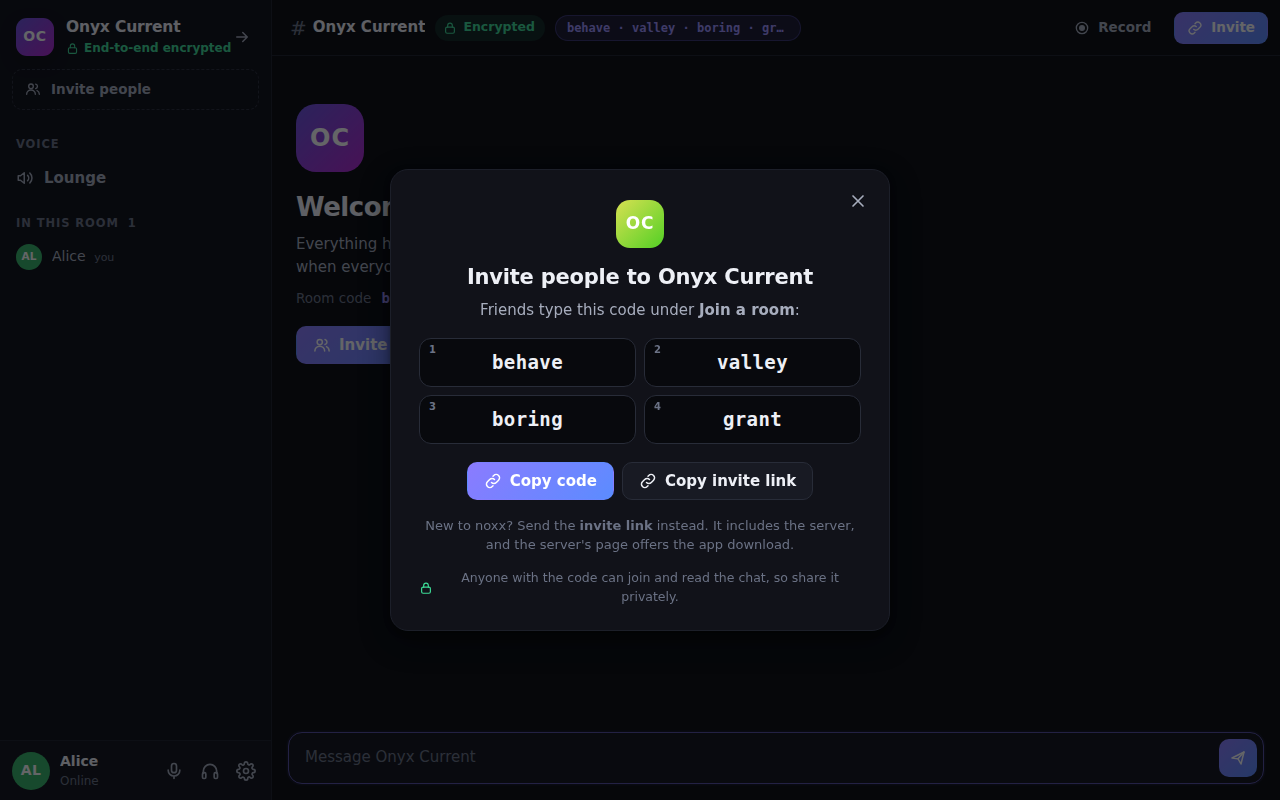
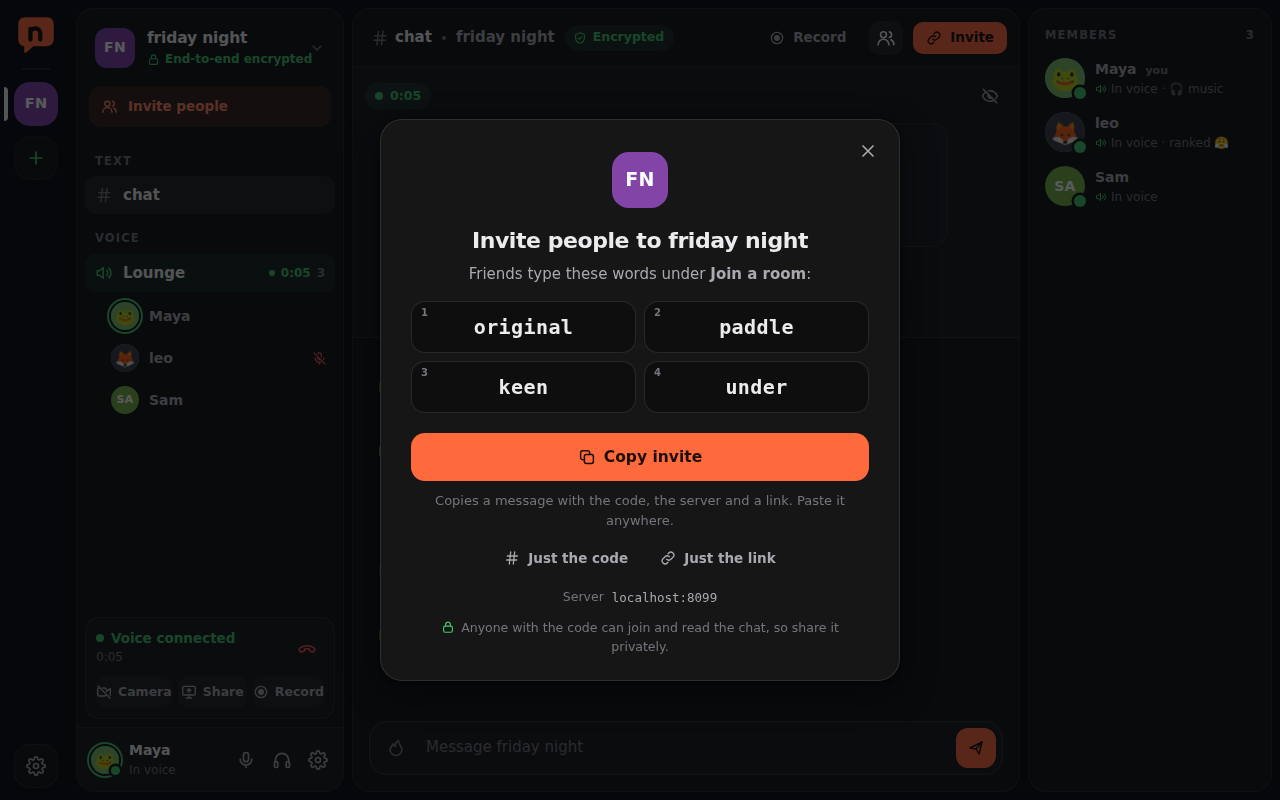
Update for 0.5.0

diff --git a/THIRD-PARTY-NOTICES.md b/THIRD-PARTY-NOTICES.md
@@ -1,17 +1,17 @@
 # Third-party notices
 
-N0xx Chat (the noxx app and the noxx server) is built with the open-source software listed below. Each
+N0xx Chat (the noxx chat app and server) is built with the open-source software listed below. Each
 component is used under its own license, and those licenses still apply to it. N0xx Chat's own
 license ([LICENSE](LICENSE)) doesn't change them.
 
 **MPL-2.0 components.** The source code for these components is available unmodified from
 <https://crates.io> under the name and version shown: cssparser 0.37.0, cssparser-macros 0.7.1, dtoa-short 0.3.5, option-ext 0.2.0, selectors 0.38.0.
 
-## noxx server
+## noxx chat server
 
 | Component | Version | License | Copyright |
 |---|---|---|---|
-| Go standard library | go1.26.6 | BSD-3-Clause | Copyright 2009 The Go Authors |
+| Go standard library | go1.24.7 | BSD-3-Clause | Copyright 2009 The Go Authors |
 | filippo.io/edwards25519 | v1.2.0 | BSD-3-Clause | Copyright (c) 2009 The Go Authors. All rights reserved. |
 | github.com/coder/websocket | v1.8.15 | 0BSD | Copyright (c) 2025 Coder |
 | github.com/creachadair/msync | v0.8.1 | BSD-3-Clause | Copyright (C) 2022, Michael J. Fromberger |
@@ -49,7 +49,7 @@ license ([LICENSE](LICENSE)) doesn't change them.
 | gvisor.dev/gvisor | v0.0.0-20260224225140-573d5e7127a8 | Apache-2.0 AND BSD-3-Clause AND MIT |  |
 | tailscale.com | v1.102.5 | BSD-3-Clause | Copyright (c) 2020 Tailscale Inc & contributors.<br>Copyright (c) Tailscale Inc & contributors |
 
-## noxx app
+## noxx chat app
 
 | Component | Version | License | Copyright |
 |---|---|---|---|
@@ -100,6 +100,8 @@ license ([LICENSE](LICENSE)) doesn't change them.
 | cfg-if | 1.0.5 | MIT OR Apache-2.0 | Copyright (c) 2014 Alex Crichton |
 | chrono | 0.4.45 | MIT OR Apache-2.0 | Copyright (c) 2014, Kang Seonghoon. |
 | concurrent-queue | 2.5.0 | Apache-2.0 OR MIT | Authors: Stjepan Glavina <stjepang@gmail.com>, Taiki Endo <te316e89@gmail.com>, John Nunley <dev@notgull.net> |
+| const-random | 0.1.18 | MIT OR Apache-2.0 | Copyright (c) 2016 Amanieu d'Antras |
+| const-random-macro | 0.1.16 | MIT OR Apache-2.0 | Copyright (c) 2016 Amanieu d'Antras |
 | cookie | 0.18.2 | MIT OR Apache-2.0 | Copyright 2017 Sergio Benitez<br>Copyright 2014 Alex Chricton<br>Copyright (c) 2017 Sergio Benitez<br>Copyright (c) 2014 Alex Crichton |
 | core-foundation | 0.10.1 | MIT OR Apache-2.0 | Copyright (c) 2012-2013 Mozilla Foundation |
 | core-foundation-sys | 0.8.7 | MIT OR Apache-2.0 | Copyright (c) 2012-2013 Mozilla Foundation |
@@ -108,7 +110,10 @@ license ([LICENSE](LICENSE)) doesn't change them.
 | cpufeatures | 0.2.17 | MIT OR Apache-2.0 | Copyright (c) 2020-2025 The RustCrypto Project Developers |
 | crc32fast | 1.5.2 | MIT OR Apache-2.0 | Copyright (c) 2018 Sam Rijs, Alex Crichton and contributors |
 | crossbeam-channel | 0.5.17 | MIT OR Apache-2.0 | Copyright (c) 2019 The Crossbeam Project Developers<br>COPYRIGHT AND/OR OTHER APPLICABLE LAW. ANY USE OF THE WORK OTHER THAN AS<br>copyright protection under copyright law or other applicable laws.<br>Copyright (c) 2009 The Go Authors. All rights reserved. |
+| crossbeam-deque | 0.8.8 | MIT OR Apache-2.0 | Copyright (c) 2019 The Crossbeam Project Developers |
+| crossbeam-epoch | 0.9.21 | MIT OR Apache-2.0 | Copyright (c) 2019 The Crossbeam Project Developers |
 | crossbeam-utils | 0.8.23 | MIT OR Apache-2.0 | Copyright (c) 2019 The Crossbeam Project Developers |
+| crunchy | 0.2.4 | MIT | Copyright 2017-2023 Eira Fransham. |
 | crypto-common | 0.1.7 | MIT OR Apache-2.0 | Copyright (c) 2021 RustCrypto Developers |
 | cssparser | 0.37.0 | MPL-2.0 | Authors: Simon Sapin <simon.sapin@exyr.org> |
 | cssparser-macros | 0.7.1 | MPL-2.0 | Authors: Simon Sapin <simon.sapin@exyr.org> |
@@ -130,12 +135,14 @@ license ([LICENSE](LICENSE)) doesn't change them.
 | displaydoc | 0.2.7 | MIT OR Apache-2.0 | Authors: Jane Lusby <jlusby@yaah.dev> |
 | dlopen2 | 0.8.2 | MIT | Authors: Szymon Wieloch <szymon.wieloch@gmail.com>, Ahmed Masud <ahmed.masud@saf.ai>, OpenByte <development.openbyte@gmail.com> |
 | dlopen2_derive | 0.4.3 | MIT | Authors: Szymon Wieloch <szymon.wieloch@gmail.com>, OpenByte <development.openbyte@gmail.com> |
+| dlv-list | 0.5.2 | MIT OR Apache-2.0 | Copyright (c) 2022 Scott Godwin |
 | dom_query | 0.28.0 | MIT | Copyright (c) 2023 Mykola Humanov |
 | dpi | 0.1.2 | Apache-2.0 AND MIT | Copyright (c) 2018 Jorge Aparicio<br>copyright:<br>Copyright © 2005-2020 Rich Felker, et al.<br>Copyright © 1993,2004 Sun Microsystems or |
 | dtoa | 1.0.11 | MIT OR Apache-2.0 | Authors: David Tolnay <dtolnay@gmail.com> |
 | dtoa-short | 0.3.5 | MPL-2.0 | Authors: Xidorn Quan <me@upsuper.org> |
 | dunce | 1.0.5 | CC0-1.0 OR MIT-0 OR Apache-2.0 | Authors: Kornel <kornel@geekhood.net> |
 | dyn-clone | 1.0.20 | MIT OR Apache-2.0 | Authors: David Tolnay <dtolnay@gmail.com> |
+| either | 1.18.0 | MIT OR Apache-2.0 | Copyright (c) 2015 |
 | embed-resource | 3.0.11 | MIT | Copyright (c) 2017 nabijaczleweli |
 | embed_plist | 1.2.2 | MIT OR Apache-2.0 | Copyright (c) 2020 Nikolai Vazquez |
 | endi | 1.1.1 | MIT | Authors: Zeeshan Ali Khan <zeenix@gmail.com> |
@@ -174,6 +181,7 @@ license ([LICENSE](LICENSE)) doesn't change them.
 | gdkx11 | 0.18.2 | MIT | Copyrights in the gtk-rs Project project are retained by their contributors. |
 | gdkx11-sys | 0.18.2 | MIT | Authors: The gtk-rs Project Developers |
 | generic-array | 0.14.7 | MIT | Copyright (c) 2015 Bartłomiej Kamiński |
+| getrandom | 0.2.17 | MIT OR Apache-2.0 | Copyright (c) 2018-2024 The rust-random Project Developers<br>Copyright (c) 2014 The Rust Project Developers |
 | getrandom | 0.3.4 | MIT OR Apache-2.0 | Copyright (c) 2018-2025 The rust-random Project Developers<br>Copyright (c) 2014 The Rust Project Developers |
 | getrandom | 0.4.3 | MIT OR Apache-2.0 | Copyright (c) 2018-2026 The rust-random Project Developers<br>Copyright (c) 2014 The Rust Project Developers |
 | gio | 0.18.4 | MIT | Copyrights in the gtk-rs Project project are retained by their contributors. |
@@ -187,6 +195,7 @@ license ([LICENSE](LICENSE)) doesn't change them.
 | gtk-sys | 0.18.2 | MIT | Authors: The gtk-rs Project Developers |
 | gtk3-macros | 0.18.2 | MIT | Copyrights in the gtk-rs Project project are retained by their contributors. |
 | hashbrown | 0.12.3 | MIT OR Apache-2.0 | Copyright (c) 2016 Amanieu d'Antras |
+| hashbrown | 0.14.5 | MIT OR Apache-2.0 | Copyright (c) 2016 Amanieu d'Antras |
 | hashbrown | 0.17.1 | MIT OR Apache-2.0 | Copyright (c) 2016 Amanieu d'Antras |
 | heck | 0.4.1 | MIT OR Apache-2.0 | Copyright (c) 2015 The Rust Project Developers |
 | heck | 0.5.0 | MIT OR Apache-2.0 | Copyright (c) 2015 The Rust Project Developers |
@@ -253,6 +262,7 @@ license ([LICENSE](LICENSE)) doesn't change them.
 | once_cell | 1.21.4 | MIT OR Apache-2.0 | Authors: Aleksey Kladov <aleksey.kladov@gmail.com> |
 | open | 5.4.4 | MIT | Copyright © `2015` `Sebastian Thiel` |
 | option-ext | 0.2.0 | MPL-2.0 | Authors: Simon Ochsenreither <simon@ochsenreither.de> |
+| ordered-multimap | 0.7.3 | MIT | Copyright (c) 2018 sgodwincs |
 | ordered-stream | 0.2.0 | MIT OR Apache-2.0 | Authors: Daniel De Graaf <code@danieldg.net>, Zeeshan Ali Khan <zeeshanak@gnome.org> |
 | pango | 0.18.3 | MIT | Copyrights in the gtk-rs Project project are retained by their contributors. |
 | pango-sys | 0.18.0 | MIT | Authors: The gtk-rs Project Developers |
@@ -284,11 +294,14 @@ license ([LICENSE](LICENSE)) doesn't change them.
 | quick-xml | 0.42.0 | MIT | Copyright (c) 2016 Johann Tuffe |
 | quote | 1.0.47 | MIT OR Apache-2.0 | Authors: David Tolnay <dtolnay@gmail.com> |
 | raw-window-handle | 0.6.2 | MIT OR Apache-2.0 OR Zlib | Copyright (c) 2019 Osspial<br>Copyright (c) 2020 Osspial |
+| rayon | 1.12.0 | MIT OR Apache-2.0 | Copyright (c) 2010 The Rust Project Developers |
+| rayon-core | 1.13.0 | MIT OR Apache-2.0 | Copyright (c) 2010 The Rust Project Developers |
 | ref-cast | 1.0.27 | MIT OR Apache-2.0 | Authors: David Tolnay <dtolnay@gmail.com> |
 | ref-cast-impl | 1.0.27 | MIT OR Apache-2.0 | Authors: David Tolnay <dtolnay@gmail.com> |
 | regex | 1.13.1 | MIT OR Apache-2.0 | Copyright (c) 2014 The Rust Project Developers |
 | regex-automata | 0.4.18 | MIT OR Apache-2.0 | Copyright (c) 2014 The Rust Project Developers |
 | regex-syntax | 0.8.11 | MIT OR Apache-2.0 | Copyright (c) 2014 The Rust Project Developers |
+| rust-ini | 0.21.3 | MIT | Copyright (c) 2014 Y. T. CHUNG |
 | rustc-hash | 2.1.3 | Apache-2.0 OR MIT | Authors: The Rust Project Developers |
 | rustc_version | 0.4.1 | MIT OR Apache-2.0 | Copyright (c) 2016 The Rust Project Developers |
 | rustix | 1.1.5 | Apache-2.0 WITH LLVM-exception OR Apache-2.0 OR MIT | Copyrights in the `rustix` project are retained by their contributors. |
@@ -342,6 +355,7 @@ license ([LICENSE](LICENSE)) doesn't change them.
 | tauri-codegen | 2.7.0 | Apache-2.0 OR MIT | Copyright (c) 2017 - Present Tauri Apps Contributors |
 | tauri-macros | 2.7.0 | Apache-2.0 OR MIT | Copyright (c) 2017 - Present Tauri Apps Contributors |
 | tauri-plugin | 2.7.0 | Apache-2.0 OR MIT | Authors: Tauri Programme within The Commons Conservancy |
+| tauri-plugin-deep-link | 2.6.0 | Apache-2.0 OR MIT | Copyright (c) 2017 - Present Tauri Apps Contributors |
 | tauri-plugin-opener | 2.6.0 | Apache-2.0 OR MIT | Copyright (c) 2017 - Present Tauri Apps Contributors |
 | tauri-plugin-single-instance | 2.5.0 | Apache-2.0 OR MIT | Copyright (c) 2017 - Present The Tauri Programme in the Commons Conservancy |
 | tauri-runtime | 2.12.0 | Apache-2.0 OR MIT | Copyright (c) 2017 - Present Tauri Apps Contributors |
@@ -356,6 +370,7 @@ license ([LICENSE](LICENSE)) doesn't change them.
 | time | 0.3.55 | MIT OR Apache-2.0 | Copyright (c) Jacob Pratt et al. |
 | time-core | 0.1.9 | MIT OR Apache-2.0 | Copyright (c) Jacob Pratt et al. |
 | time-macros | 0.2.32 | MIT OR Apache-2.0 | Copyright (c) Jacob Pratt et al. |
+| tiny-keccak | 2.0.2 | CC0-1.0 | Authors: debris <marek.kotewicz@gmail.com> |
 | tinystr | 0.8.4 | Unicode-3.0 | COPYRIGHT AND PERMISSION NOTICE<br>Copyright © 2020-2024 Unicode, Inc. |
 | tinyvec | 1.13.3 | Zlib OR Apache-2.0 OR MIT | Copyright (c) 2019 Daniel "Lokathor" Gee. |
 | tokio | 1.53.1 | MIT | Copyright (c) Tokio Contributors |
@@ -396,6 +411,7 @@ license ([LICENSE](LICENSE)) doesn't change them.
 | window-vibrancy | 0.8.1 | Apache-2.0 OR MIT | Copyright (c) 2020-2022 Tauri Programme within The Commons Conservancy |
 | windows | 0.61.3 | MIT OR Apache-2.0 | Copyright (c) Microsoft Corporation. |
 | windows | 0.62.2 | MIT OR Apache-2.0 | Copyright (c) Microsoft Corporation. |
+| windows-capture | 2.0.1 | MIT | Copyright (c) 2023 NiiightmareXD |
 | windows-collections | 0.2.0 | MIT OR Apache-2.0 | Copyright (c) Microsoft Corporation. |
 | windows-collections | 0.3.2 | MIT OR Apache-2.0 | Copyright (c) Microsoft Corporation. |
 | windows-core | 0.61.2 | MIT OR Apache-2.0 | Copyright (c) Microsoft Corporation. |
@@ -408,6 +424,7 @@ license ([LICENSE](LICENSE)) doesn't change them.
 | windows-link | 0.2.1 | MIT OR Apache-2.0 | Copyright (c) Microsoft Corporation. |
 | windows-numerics | 0.2.0 | MIT OR Apache-2.0 | Copyright (c) Microsoft Corporation. |
 | windows-numerics | 0.3.1 | MIT OR Apache-2.0 | Copyright (c) Microsoft Corporation. |
+| windows-registry | 0.6.1 | MIT OR Apache-2.0 | Copyright (c) Microsoft Corporation. |
 | windows-result | 0.3.4 | MIT OR Apache-2.0 | Copyright (c) Microsoft Corporation. |
 | windows-result | 0.4.1 | MIT OR Apache-2.0 | Copyright (c) Microsoft Corporation. |
 | windows-strings | 0.4.2 | MIT OR Apache-2.0 | Copyright (c) Microsoft Corporation. |

diff --git a/README.md b/README.md
@@ -1,39 +1,60 @@
 <div align="center">
 <img src="docs/logo.png" width="72" alt="">
 
-# N0xx Chat
+# noxx chat
 
 Private chat, voice, video and screen sharing that doesn't eat your PC.
 
-**[Download for Windows](https://github.com/Nox-Labs-x/N0xx-Chat/releases/latest/download/noxx-setup-windows-x64.exe)** ·
-[Mac](https://github.com/Nox-Labs-x/N0xx-Chat/releases/latest/download/noxx-macos-arm64.dmg) ·
-[Linux](https://github.com/Nox-Labs-x/N0xx-Chat/releases/latest/download/noxx-linux-x64.deb) ·
+**[Download for Windows](https://github.com/Nox-Labs-x/N0xx-Chat/releases/latest/download/noxx-chat-setup-windows-x64.exe)** ·
+[Mac](https://github.com/Nox-Labs-x/N0xx-Chat/releases/latest/download/noxx-chat-macos-arm64.dmg) ·
+[Linux](https://github.com/Nox-Labs-x/N0xx-Chat/releases/latest/download/noxx-chat-linux-x64.deb) ·
 [All releases](https://github.com/Nox-Labs-x/N0xx-Chat/releases)
 
-<img src="docs/room.png" alt="N0xx Chat room with voice">
+<img src="docs/room.png" alt="noxx chat: a room with chat and a voice call">
 </div>
 
 I got tired of chat apps that sit at 500 MB of RAM doing nothing, so I made my own. The installer
-is about 3 MB and it idles at basically 0% CPU. A voice call uses around 1%.
+is a few MB, it idles at basically 0% CPU, and in calls your graphics card does the video work
+instead of your CPU.
 
 It's end-to-end encrypted, there are no accounts, and nothing gets stored anywhere.
 
 ### Features
 
-- Text chat (bold, italics, code, links)
-- Voice with mute, deafen and per-person volume (right click someone)
-- Camera and screen sharing, with optional system audio
-- Screen recording straight to your PC
+<img src="docs/profile.png" width="260" align="right" alt="A profile card">
+
+- Chat with replies, reactions, edits, spoilers and **disappearing messages**
+- Voice with mute, deafen, a call timer and per-person volume (right click someone)
+- Camera and screen sharing up to **1440p / 60 fps**, with stereo sound for games and music
+- **Point at someone's shared screen.** Everyone watching sees your pointer and clicks.
+  Scroll to zoom into a share.
+- **Built-in screen recorder** (Windows) that saves straight to `Videos\noxx chat` and runs on
+  your graphics card
+- Profiles with a picture, colour, status and a short "about me"
+- Rename rooms, switch between them from the side rail, pick your own accent colour
 - Rooms use 4-word codes like `orbit maple sugar velvet` instead of long random links
+
+<br clear="right">
+
+### Nobody can clip you
+
+On Windows and Mac, the noxx chat window is hidden from screen recorders, clipping tools and
+screen shares, including its own recorder. The recorder only captures your screen, your mic and your
+computer's sound, never other people's voices or cameras. So what's said in noxx chat stays in
+noxx chat.
+
+(Nothing can stop someone holding a phone up to their speakers, but everything on the PC side is
+covered.)
 
 ### Installing
 
-**Windows:** run `noxx-setup-windows-x64.exe`. It isn't code-signed yet, so Windows might show
-"Windows protected your PC". Click *More info*, then *Run anyway*. No admin needed.
+**Windows:** run `noxx-chat-setup-windows-x64.exe`. It isn't code-signed yet, so Windows might show
+"Windows protected your PC". Click *More info*, then *Run anyway*. No admin needed. Your settings
+carry over from older versions, and you can uninstall the old "noxx" from *Settings → Apps*.
 
-**Mac:** open the .dmg, drag noxx into Applications, then right-click it and pick *Open* the first time.
+**Mac:** open the .dmg, drag noxx chat into Applications, then right-click it and pick *Open* the first time.
 
-**Linux:** `sudo apt install ./noxx-linux-x64.deb`. Chat works everywhere. Voice depends on your distro's WebKitGTK having WebRTC.
+**Linux:** `sudo apt install ./noxx-chat-linux-x64.deb`. Chat works everywhere. Voice depends on your distro's WebKitGTK having WebRTC.
 
 ### Using it
 
@@ -41,11 +62,12 @@ It's end-to-end encrypted, there are no accounts, and nothing gets stored anywhe
 
 1. Put in the server link you got from whoever runs your server (something like `https://noxx.tail1234.ts.net`).
    It goes green once it connects.
-2. Pick a name.
+2. Pick a name, and a picture in *Settings → My profile* if you like.
 3. Type a room code a friend sent you, or hit **Create a new room**. Codes don't care about capitals
    or spacing, and the first 4 letters of each word are enough.
-4. In a room, **Invite** shows the code and a link. The link has the server in it too, which is
-   easier for people who haven't set anything up yet.
+4. In a room, **Invite → Copy invite** gives you a message with the code, the server and a link.
+   Paste it anywhere. Friends who already have the app can open the link and click
+   *Open this invite in noxx chat*.
 
 Want to host a server for your friends? That's over at
 **[N0xx-Chat-server](https://github.com/Nox-Labs-x/N0xx-Chat-server)**. It's one program and you
@@ -53,13 +75,21 @@ don't need to port forward.
 
 <br clear="right">
 
+### Light on your PC
+
+- Idle chat is close to 0% CPU. No framework, no web fonts, nothing ticking in the background.
+- Video uses H.264, which graphics cards encode and decode in hardware.
+- Nobody encodes video no one is watching: hide the window and people stop sending you video.
+- Profiles in *Settings → Performance* go from *Battery saver* up to your own custom mix.
+
 ### Privacy
 
 <img src="docs/invite.png" width="400" align="right" alt="Invite window">
 
-The room code is the encryption key. Messages, names and call setup get encrypted (AES-256-GCM)
-on your device before anything is sent, and the code itself never leaves your device, so the
-server can't read anything. Voice and video go straight between you and your friends.
+The room code is the encryption key. Messages, names, profiles and call setup get encrypted
+(AES-256-GCM) on your device before anything is sent, and the code itself never leaves your
+device, so the server can't read anything. Voice and video go straight between you and your
+friends.
 
 Anyone with the code can get in, so only send it to people you actually want there.
 

diff --git a/PRIVACY.md b/PRIVACY.md
@@ -1,12 +1,12 @@
 # Privacy Policy
 
-**Effective: 28 September 2026**
+**Effective: 29 September 2026**
 
 **The short version:** N0xx Chat is built so that nobody can read your messages or calls. That
 includes us (Nox Labs) and whoever runs your server. There are no accounts, no analytics and no
 tracking, and nothing you say is stored on a server.
 
-This policy covers the noxx desktop app, the noxx server program, and these repositories.
+This policy covers the noxx chat desktop app, the noxx chat server program, and these repositories.
 
 ## What we collect
 
@@ -17,12 +17,15 @@ contact us. We have no servers of our own that your app talks to.
 
 The app stores its settings locally on your device:
 
-- your display name, chosen microphone, speaker and camera, and your preferences;
+- your display name and profile (picture, colour, status, "about me"), chosen microphone, speaker
+  and camera, and your preferences;
 - the server address you entered;
 - if **Remember recent rooms** is on (Settings → Privacy): recent room names, codes and servers.
 
-You can clear recent rooms in Settings → Privacy, and remove everything by uninstalling the app.
-Screen recordings are only saved where you choose, on your own device.
+You can clear recent rooms in Settings → Privacy & safety, and remove everything by uninstalling the
+app. Screen recordings are saved on your own device (in the desktop app, in your Videos folder under
+"noxx chat") and are never uploaded. Recordings contain your screen, your microphone and your
+computer's sound. They never include other people's voices, cameras or screens from the app.
 
 ## What a server can see
 
@@ -37,16 +40,20 @@ A server can see:
 - a random-looking room identifier made from the code, which can't practically be turned back into it;
 - when devices connect and disconnect, and the size and timing of the encrypted data.
 
-A server **cannot** see display names, messages, typing, voice, video or screen shares. The official
-noxx server keeps no message history and no log of any of the above. It only displays a running count
+A server **cannot** see display names, profiles, messages, reactions, typing, voice, video or screen
+shares. The official noxx chat server keeps no message history and no log of any of the above. It only displays a running count
 of connected people. A host could change their own server software, so only use servers run by people
 you trust.
 
 ## What other people in a room can see
 
-Everyone who has a room's code can read the room's messages and see your display name and voice or
-camera status. When someone joins, another member's device may share recent messages with them (up
-to the last 100). Nothing is kept once everyone has left.
+Everyone who has a room's code can read the room's messages and see your display name, profile and
+voice or camera status. When someone joins, another member's device may share recent messages with
+them (up to the last 100). Nothing is kept once everyone has left, and disappearing messages are
+removed from everyone's screen when their timer runs out.
+
+In the desktop app on Windows and macOS, the app window is hidden from screen capture, so other apps
+can't record or clip what's on it. No app can stop someone photographing their screen.
 
 Voice, video and screen sharing are **peer-to-peer**, so the people you call can see your IP address.
 
@@ -55,7 +62,7 @@ Voice, video and screen sharing are **peer-to-peer**, so the people you call can
 - **STUN servers** (Cloudflare and Google) help calls connect and see your IP address when a call
   starts. They never see call content.
 - **Tailscale:** if a host uses Tailscale, connections to their server pass through Tailscale's
-  network. Content stays end-to-end encrypted. The noxx server turns off Tailscale's diagnostic log
+  network. Content stays end-to-end encrypted. The noxx chat server turns off Tailscale's diagnostic log
   upload. [Tailscale's privacy policy](https://tailscale.com/privacy-policy) applies to hosts' use.
 - **GitHub** serves the downloads. [GitHub's privacy statement](https://docs.github.com/site-policy/privacy-policies/github-general-privacy-statement) applies when you visit or download.
 - **Microsoft WebView2:** on Windows the app uses the system's web engine, so Microsoft's terms and

diff --git a/TERMS.md b/TERMS.md
@@ -1,8 +1,8 @@
 # Terms of Service
 
-**Effective: 28 September 2026**
+**Effective: 29 September 2026**
 
-These terms cover **N0xx Chat**: the noxx desktop app, the noxx server program, and the
+These terms cover **N0xx Chat**: the noxx chat desktop app, the noxx chat server program, and the
 [N0xx-Chat](https://github.com/Nox-Labs-x/N0xx-Chat) and
 [N0xx-Chat-server](https://github.com/Nox-Labs-x/N0xx-Chat-server) repositories (together, "N0xx Chat").
 N0xx Chat is made by **Nox Labs** ("we", "us").
@@ -30,8 +30,10 @@ Don't use N0xx Chat to:
 - break any law, or help anyone else break one;
 - share child sexual abuse material, or any content that sexualises minors;
 - harass, threaten, stalk or dox anyone, or share intimate images of someone without their consent;
-- spread malware, or attack, overload or gain unauthorised access to any system, including noxx servers;
+- spread malware, or attack, overload or gain unauthorised access to any system, including noxx chat servers;
 - infringe anyone else's copyright, trademarks, privacy or other rights;
+- record, clip or share other people's messages, voices or video without their permission, or try
+  to get around the app's protection against screen capture;
 - send spam, or impersonate another person.
 
 **Recording:** only record calls or screens where you're allowed to. Where the law requires
@@ -39,7 +41,7 @@ everyone's consent, get it first. The app shows others a recording indicator whi
 
 ## 4. Hosting a server
 
-If you run a noxx server, **you're the operator of that server** and responsible for it. That includes
+If you run a noxx chat server, **you're the operator of that server** and responsible for it. That includes
 following the laws that apply to you, following the terms of any service you use with it (such as
 Tailscale), and deciding who you share your server's link with. Because content is end-to-end
 encrypted and never stored, hosts can't see or moderate it. A host can stop sharing their link or

diff --git a/SECURITY.md b/SECURITY.md
@@ -5,7 +5,7 @@
 Please report security problems **privately**: open this repository's **Security** tab →
 **Report a vulnerability**. Don't open a public issue, and never post real room codes or invite links.
 
-Include what you found, the steps to reproduce it, and the version (Windows: Settings → Apps → noxx; server: `noxx-server -version`).
+Include what you found, the steps to reproduce it, and the version (Windows: Settings → Apps → noxx chat; server: `noxx-server -version`).
 We aim to reply within 7 days and will credit you in the release notes if you'd like.
 
 Only the latest release is supported. Please update before reporting.
